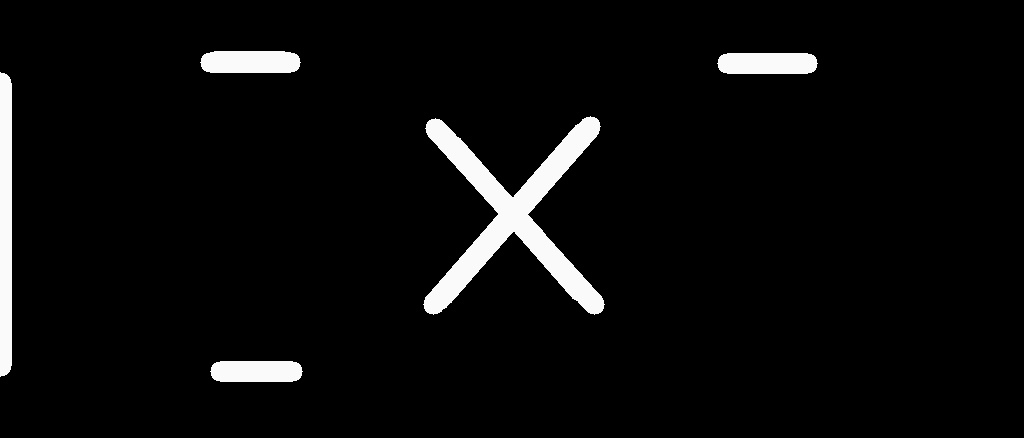
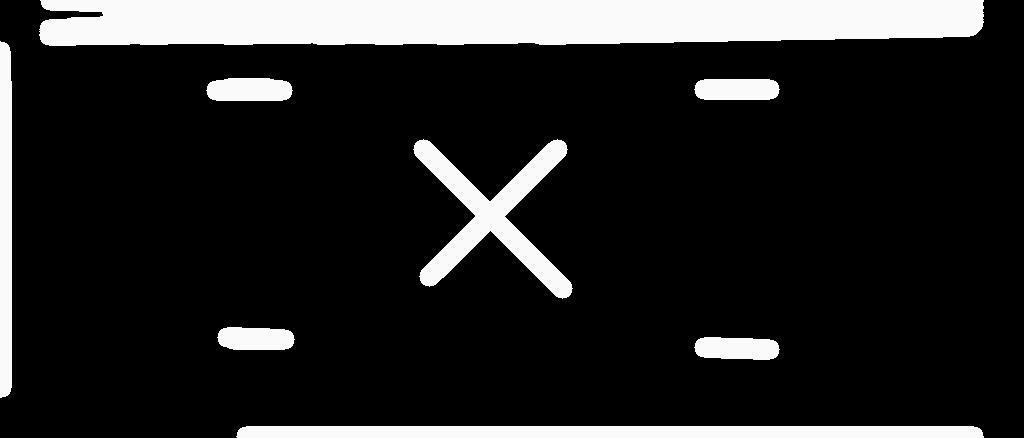
Modified slider value in scan track

diff --git a/Image Processing/ImageProcessingC++/ScanCar.cpp b/Image Processing/ImageProcessingC++/ScanCar.cpp
@@ -93,12 +93,15 @@ void car_on_line(bool& on_line, double x_car_front, double  y_car_front, double 
 	int distance_between_2_centers= calculateDistance(x_car_front, y_car_front, x_car_back, y_car_back) ;
 	int windo_size_x = distance_between_2_centers * 1.5;
 	int windo_size_y = distance_between_2_centers * 2;
+	//int windo_size_y = distance_between_2_centers * 50;
+
 
 
 	int count = 0;
 	on_line = false;
 
-	int x_start = x_car_front - windo_size_x /2;
+	//int x_start = x_car_front - windo_size_x /2;//
+	int x_start = x_car_front;//Basma
 	if (x_start < 0) {
 		x_start = 0;
 	}
@@ -118,8 +121,17 @@ void car_on_line(bool& on_line, double x_car_front, double  y_car_front, double 
 	if (y_end >= lines_matrix.rows) {
 		y_end = lines_matrix.rows-1;
 	}
+
+	cout << "x_start" << x_start << endl;
+	cout << "y_start" << y_start << endl;
+	cout << " x_end-x_start" << x_end - x_start << endl;
+	cout << "y_end- y_start" << y_end - y_start << endl;
+
 	Rect rectangle_var = Rect(x_start,y_start , x_end-x_start,y_end- y_start);
 	Mat window = lines_matrix(rectangle_var);
+	cout << "window.rows" << window.rows << endl;
+	cout << "window.vols" << window.cols << endl;
+
 
 	//Debug  Comment
 	//namedWindow("window on_line()", WINDOW_NORMAL);
@@ -144,11 +156,13 @@ void car_on_line(bool& on_line, double x_car_front, double  y_car_front, double 
 	//Debug Rectangle to We search in
 	Mat rect_img = lines_matrix.clone();
 	rectangle(rect_img, Point(x_start,y_start), Point(x_end,y_end), (100, 100, 100), 2);
-	cv::line(rect_img, Point(x_car, y_car), Point(0, 0), Scalar(100, 100, 100), 20);
+	//cv::line(rect_img, Point(x_car, y_car), Point(0, 0), Scalar(100, 100, 100), 20);
+	cv::line(rect_img, Point(x_car_front, y_car_front), Point(0, 0), Scalar(100, 100, 100), 20);
+
 
 	//namedWindow("Search Window car_on_line()", WINDOW_NORMAL);
 	//imshow("Search Window car_on_line()", rect_img);
-	imwrite("./assets/TestCases/TestCase" + std::to_string(testcase) + "/results/Search Window car_on_line().jpeg", rect_img);
+	imwrite("./assets/TestCases/TestCase" + std::to_string(testcase) + "/results/Search Window car_on_line() from front of car.jpeg", rect_img);
 	//waitKey(0);
 
 

diff --git a/Image Processing/ImageProcessingC++/ScanTrack.cpp b/Image Processing/ImageProcessingC++/ScanTrack.cpp
@@ -125,10 +125,10 @@ void extract_lines(Mat & image_lines, Mat& image,int sliding, double rho, double
 		double y2 = line_inst[3];
 
 		double change_x = x2 - x1, change_y = y2 - y1;
-		double length = sqrt(pow(change_x, 2) + pow(change_y, 2));
+		double length = sqrt(pow(change_x, 2) + pow(change_y, 2));//length
 		change_x /= length; change_y /= length;
-		change_x *= sliding;
-		change_y *= sliding;
+		change_x *= 0.20*length;///////////Basma
+		change_y *= 0.20* length;///////////Basma
 		x1 += change_x;
 		y1 += change_y;
 
@@ -136,8 +136,8 @@ void extract_lines(Mat & image_lines, Mat& image,int sliding, double rho, double
 		y2 -= change_y;
 		//int m = (x1 - x2) / (y1 - y2);
 		//int c = x2 - m*y2;
-		double a = y1 - y2, b = x2 - x1, c = x1 * y2 - x2 * y1;
-		int threshold_cut = 50;
+		//double a = y1 - y2, b = x2 - x1, c = x1 * y2 - x2 * y1;
+		//int threshold_cut = 50;
 		/*if (x1 > x2) {
 			x1 = x1 - threshold_cut;
 			y1 = (a * x1 + c) / -b;

diff --git a/Image Processing/ImageProcessingC++/main.cpp b/Image Processing/ImageProcessingC++/main.cpp
@@ -10,7 +10,7 @@
 using namespace cv;
 using namespace std;
 
-int testcase = 12;
+int testcase = 13;
 
 int main(int argc, char** argv)
 {
@@ -98,8 +98,8 @@ int main(int argc, char** argv)
 	
 	//Debug [Comment]
 	Mat draw_car_online = image_lines.clone();
-	cv::line(draw_car_online, Point(0, 0), Point(x_f, y_f), Scalar(255, 0, 0), 5);
-	cv::line(draw_car_online, Point(0, 0), Point(x_b, y_b), Scalar(0, 255, 255), 5);
+	cv::line(draw_car_online, Point(0, 0), Point(x_f, y_f), Scalar(255, 255, 255), 5);
+	cv::line(draw_car_online, Point(0, 0), Point(x_b, y_b), Scalar(255, 255, 255), 5);
 
 	//namedWindow("car_on_line main()", WINDOW_NORMAL);
 	//imshow("car_on_line main()", image_lines);

diff --git a/Image Processing/ImageProcessingC++/ScanCar.h b/Image Processing/ImageProcessingC++/ScanCar.h
@@ -9,6 +9,6 @@ using namespace cv;
 using namespace std;
 
 bool find_car(int& x_center, int& y_center, int& x_f, int& y_f, int& x_b, int& y_b, Mat& image, Scalar front_color, Scalar back_color);
-void car_on_line(bool& on_line, double x_car_front, double  y_car_front, double  x_car_back, double y_car_back, Mat& lines_matrix, int threshold = 100);
+void car_on_line(bool& on_line, double x_car_front, double  y_car_front, double  x_car_back, double y_car_back, Mat& lines_matrix, Mat car_image_debug, int threshold = 100);
 //bool increase_decrease_speed(Mat& draw,double x_car_front, double  y_car_front, double  x_car_back, double y_car_back, Vec4i line, double dist_threshold);
 #endif

diff --git a/Image Processing/ImageProcessingC++/assets/HSV_Test/color.py b/Image Processing/ImageProcessingC++/assets/HSV_Test/color.py
@@ -32,7 +32,7 @@ while True:
 
     # if not ret:
     #     break
-    color='2'
+    color='test'
     image = cv2.imread('./'+color+'.jpeg' , 1)
     frame=image
 
